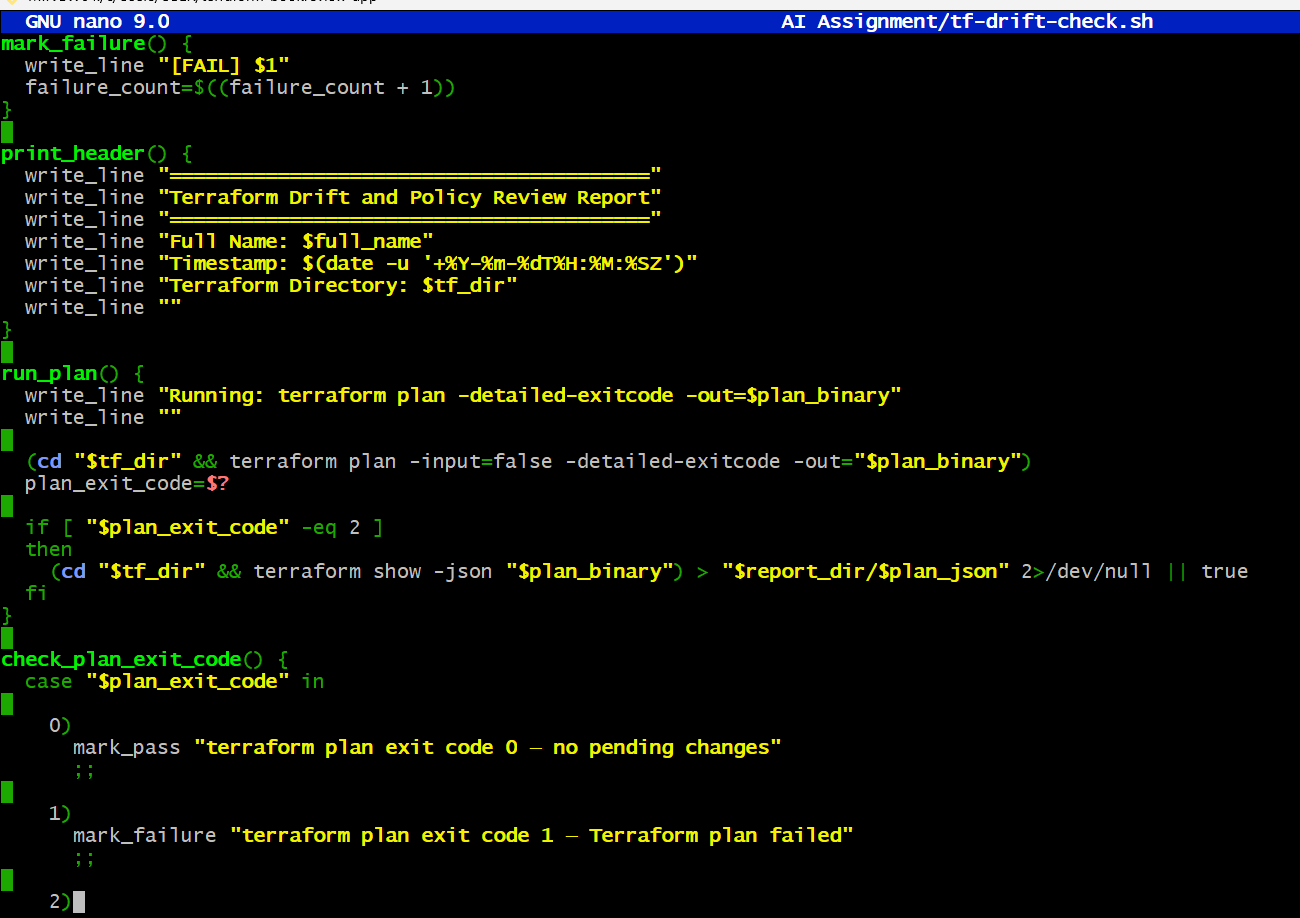
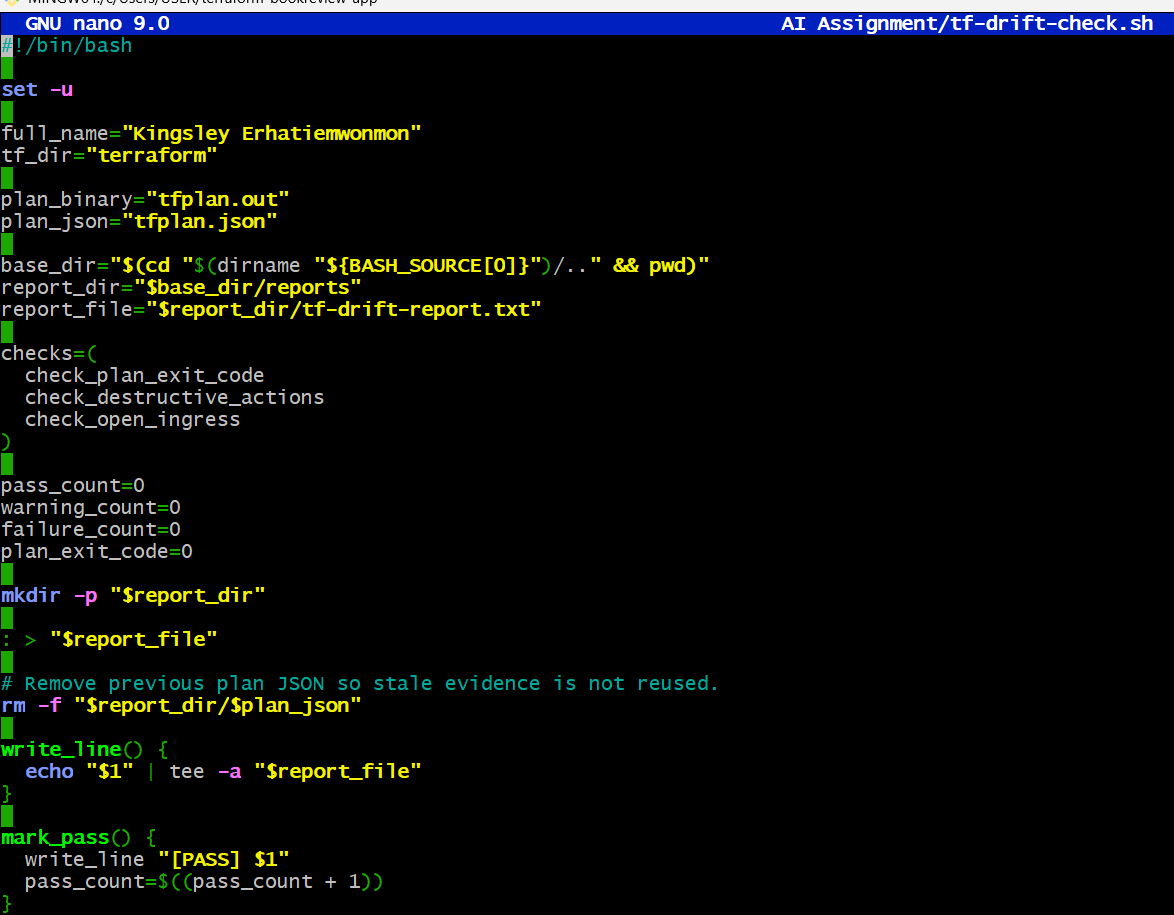
Week 08 Assignment Completed

diff --git a/week-08-terraform/assignment-06-ai-assisted-terraform-drift-and-policy-review.md b/week-08-terraform/assignment-06-ai-assisted-terraform-drift-and-policy-review.md
@@ -106,9 +106,9 @@ Create a Bash script that gathers Terraform plan evidence and checks it for dest
 
 Add a screenshot of the top section of `tf-drift-check.sh` showing the variables and `checks` array.
 
-![Assignment 5 Screenshots](screenshots/assgn6-img4.png)
-
 ![Assignment 5 Screenshots](screenshots/assgn6-img4a.png)
+
+![Assignment 5 Screenshots](screenshots/assgn6-img4b.png)
 
 ---
 
@@ -116,9 +116,9 @@ Add a screenshot of the top section of `tf-drift-check.sh` showing the variables
 
 Add a screenshot showing `check_destructive_actions` and `check_open_ingress`, including the `jq` checks.
 
-![Assignment 5 Screenshots](screenshots/assgn6-img5.png)
-
 ![Assignment 5 Screenshots](screenshots/assgn6-img5a.png)
+
+![Assignment 5 Screenshots](screenshots/assgn6-img5b.png)
 
 ---
 
